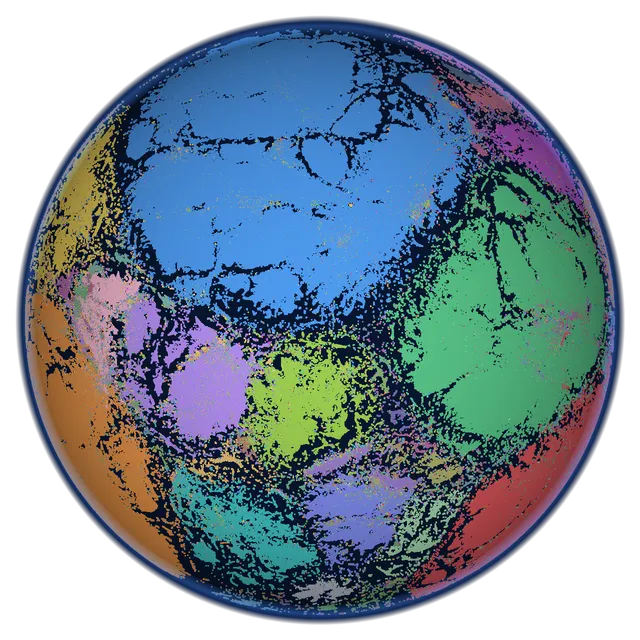
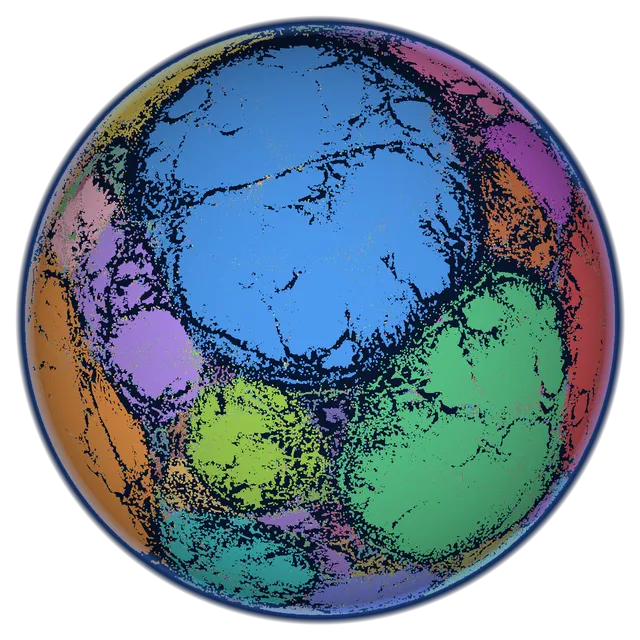
EarthDNA: Highlight cultured isolates, named species or type material (GTDB); 30% reference GTDB globe
- globe.json may list traits (traits.bin: one byte per point, bit k = trait k); when it does, a Highlight control
  dims everything else, together with any taxon picked, and the taxa list counts only the highlighted points.
  GTDB's are cultured (isolate genomes, not MAGs / SAGs), named (Latin species epithet) and type material.
- GTDB data version gtdb226-ref30-2k-p2c4-traits: a 30% reference (10.5M fragments, every genome >= 5), 2000
  iterations, phylum and class springs strengthened (Clostridia in one region); new preview.

diff --git a/src/lib/earthdna/globe.js b/src/lib/earthdna/globe.js
@@ -23,6 +23,7 @@ import { TAXON_SYNONYMS } from './taxa';
  *   onPick   called with a clicked reference's lineage [{ rank, code, name }]
  *   onClear  called on Escape
  *   onAsvs   called once the runs' ASVs are in (the picker's ASV counts change)
+ *   onRefresh  called when the picker should ask view() again (the highlight changed)
  *
  * view(level, filter) colours the references by their taxa at rank `level`
  * among those inside `filter` ({ rank, code } or null; outside it they dim),
@@ -53,7 +54,7 @@ const COLW = 2048;  // WebGL2 guarantees 2048-wide textures
 const norm = (s) => s.trim().toLowerCase().replace(/_/g, ' ');
 const css = (c) => `rgb(${Math.round(c[0] * 255)},${Math.round(c[1] * 255)},${Math.round(c[2] * 255)})`;
 
-export function mountGlobe(root, { base, version = '', release, runs, unit = 'sequences', unitOne = 'sequence', onTaxa = () => {}, onPick = () => {}, onClear = () => {}, onAsvs = () => {} }) {
+export function mountGlobe(root, { base, version = '', release, runs, unit = 'sequences', unitOne = 'sequence', onTaxa = () => {}, onPick = () => {}, onClear = () => {}, onAsvs = () => {}, onRefresh = () => {} }) {
 	const $ = (id) => root.querySelector('#' + id);
 	const canvas = $('gl');
 	const gl = canvas.getContext('webgl2', { antialias: true, premultipliedAlpha: false });
@@ -159,6 +160,9 @@ void main() {
 	const R0 = [0, 1, 0, 0, 0, 1, 1, 0, 0];  // world -> view: lon 0 / lat 0 faces the viewer, north up
 	let rot = R0.slice(), zoom = 1, flat = false, spin = !matchMedia('(prefers-reduced-motion: reduce)').matches;
 	let N = 0, meta = null, grp, gen, lin, spc, xyz, cellStart, cellIdx, selBuf, sel, hasSel = false;
+	// genome traits (globe.json traits; GTDB: cultured, named, type_material): one byte per point, bit k = trait k
+	let traits = null, trait = -1;
+	const TRAIT_LABEL = { cultured: 'Cultured isolates', named: 'Named species', type_material: 'Type material' };
 	let domIx = null, rankArr = null, rankNames = null, cidx = null, cidxBuf = null, asvFilter = '';
 	// one RGBA texel per colour slot, COLW wide; rows grow with the number of slots (texel past the end reads black)
 	const colTex = gl.createTexture();
@@ -642,14 +646,14 @@ void main() {
 		const counts = new Map();
 		let members = 0;
 		for (let i = 0; i < N; i++) {
-			const inside = !filter || rankCode(filter.rank, i) === filter.code;
+			const inside = (!filter || rankCode(filter.rank, i) === filter.code) && (trait < 0 || (traits[i] >> trait) & 1);
 			sel[i] = inside ? 1 : 0;
 			if (!inside) continue;
 			members++;
 			const c = rankCode(level, i);
 			counts.set(c, (counts.get(c) || 0) + 1);
 		}
-		hasSel = !!filter && members < N;
+		hasSel = (!!filter || trait >= 0) && members < N;
 		const ranked = [...counts].sort((a, b) => (a[0] === NONE) - (b[0] === NONE) || b[1] - a[1])
 			.map(([code, count]) => ({ code, count, name: code === NONE ? 'unclassified' : rankNames[level][code] }));
 		// every listed taxon gets its own slot and colour; unclassified is the bright one
@@ -676,7 +680,8 @@ void main() {
 			}
 			syncAsvOn();
 		}
-		$('status').textContent = filter ? `${rankNames[filter.rank][filter.code]} · ${members.toLocaleString()} ${unit}` : IDLE;
+		const what = [filter ? rankNames[filter.rank][filter.code] : '', trait >= 0 ? TRAIT_LABEL[meta.traits[trait]] || meta.traits[trait] : ''].filter(Boolean).join(' · ');
+		$('status').textContent = what ? `${what} · ${members.toLocaleString()} ${unit}` : IDLE;
 		dirty = true;
 		return ranked;
 	}
@@ -932,6 +937,20 @@ void main() {
 		rankArr = [0, 1, 2, 3].map((k) => new Uint16Array(rk.buffer, 2 * k * N, N));
 		const R = meta.ranks;
 		rankNames = [doms, ...R.levels.slice(1, 5).map((l) => R.names[l]), meta.genera, meta.species];
+		if (meta.traits?.length) {
+			// optional: a globe without traits.bin just has no Highlight control
+			const tb = await fetchBin('traits.bin').catch(() => null);
+			if (tb && tb.length === N) {
+				traits = tb;
+				const selEl = $('trait');
+				for (const [k, name] of meta.traits.entries()) {
+					let n = 0; for (let i = 0; i < N; i++) n += (tb[i] >> k) & 1;
+					selEl.add(new Option(`${TRAIT_LABEL[name] || name} (${n.toLocaleString()})`, String(k)));
+				}
+				$('traitRow').hidden = false;
+				on(selEl, 'change', () => { trait = +selEl.value; onRefresh(); });
+			}
+		}
 		view(Math.max(0, R.levels.indexOf('class')), null);
 		$('nseq').textContent = N.toLocaleString();
 		$('loading').hidden = true; dirty = true;

diff --git a/src/routes/earthdna/[dataset]/+page.svelte b/src/routes/earthdna/[dataset]/+page.svelte
@@ -22,6 +22,7 @@
 	let root: HTMLElement;
 	let taxa = $state<Taxa | null>(null);
 	let asvVersion = $state(0);
+	let refreshVersion = $state(0); // the highlight changed: the picker asks view() again
 	let picker = $state<ReturnType<typeof TaxonPicker> | null>(null);
 	let view = $state<(level: number, filter: Taxon | null) => RankedTaxon[]>(() => []);
 
@@ -39,7 +40,8 @@
 			onTaxa: (t: Taxa) => (taxa = t),
 			onPick: (lineage: Taxon[]) => picker?.show(lineage),
 			onClear: () => picker?.show(null),
-			onAsvs: () => asvVersion++
+			onAsvs: () => asvVersion++,
+			onRefresh: () => refreshVersion++
 		});
 		view = globe.view;
 		return globe.destroy;
@@ -103,6 +105,11 @@
 				<button id="cFlag" aria-pressed="false">Label conflicts</button>
 			</div>
 		</div>
+		<div class="row" id="traitRow" hidden>
+			<label class="rankpick highlight" for="trait">Highlight
+				<select id="trait"><option value="-1">All genomes</option></select>
+			</label>
+		</div>
 		<div id="status">Drag to turn the globe. Click a point to pick out its genus.</div>
 		<div class="sliders">
 			<label class="slider" for="size">Point size <input id="size" type="range" min="0.5" max="6" step="0.1" value="0.5" /></label>
@@ -113,7 +120,7 @@
 	<section id="key" class="card" aria-label="Taxa">
 		<h2>Taxa</h2>
 		{#if taxa}
-			<TaxonPicker bind:this={picker} {taxa} {view} asvsShown={asvVersion > 0} version={asvVersion} />
+			<TaxonPicker bind:this={picker} {taxa} {view} asvsShown={asvVersion > 0} version={asvVersion + refreshVersion} />
 		{:else}
 			<p class="keywait">Loading the taxonomy…</p>
 		{/if}

diff --git a/src/lib/earthdna/datasets.ts b/src/lib/earthdna/datasets.ts
@@ -42,11 +42,11 @@ export const DATASETS: Dataset[] = [
 		slug: 'gtdb',
 		name: 'Genomes',
 		base: '/earthdna/gtdb226',
-		version: 'gtdb226-ref6.5-2k-p2',
+		version: 'gtdb226-ref30-2k-p2c4-traits',
 		release: null,
 		count: 3886471,
 		unit: ['fragment', 'fragments'],
-		blurb: '10 kb fragments of all 143k GTDB r226 species-representative genomes, bacteria and archaea.',
+		blurb: '10 kb fragments of all 143k GTDB r226 species-representative genomes, bacteria and archaea; highlight cultured isolates, named species or type material.',
 		source: '10 kb fragments of GTDB r226 species-representative genomes',
 		preview: '/earthdna/previews/gtdb.webp'
 	}

diff --git a/src/routes/earthdna/earthdna.css b/src/routes/earthdna/earthdna.css
@@ -121,3 +121,6 @@
 	.earthdna .sliders { display: none; }
 	.earthdna #groups, .earthdna #runs { max-height: 30dvh; }
 }
+/* Highlight: genome traits (GTDB cultured / named / type material) */
+.earthdna .highlight { display: flex; align-items: center; gap: 8px; width: 100%; font-size: 0.75rem; color: var(--muted); }
+.earthdna .highlight select { flex: 1; font: inherit; font-size: 0.8rem; color: var(--ink); background: rgba(255, 255, 255, 0.04); border: 1px solid var(--line); border-radius: 6px; padding: 3px 6px; }

diff --git a/src/lib/earthdna/globe.d.ts b/src/lib/earthdna/globe.d.ts
@@ -28,5 +28,6 @@ export function mountGlobe(
 		onPick?: (lineage: Taxon[]) => void;
 		onClear?: () => void;
 		onAsvs?: () => void;
+		onRefresh?: () => void;
 	}
 ): Globe;
